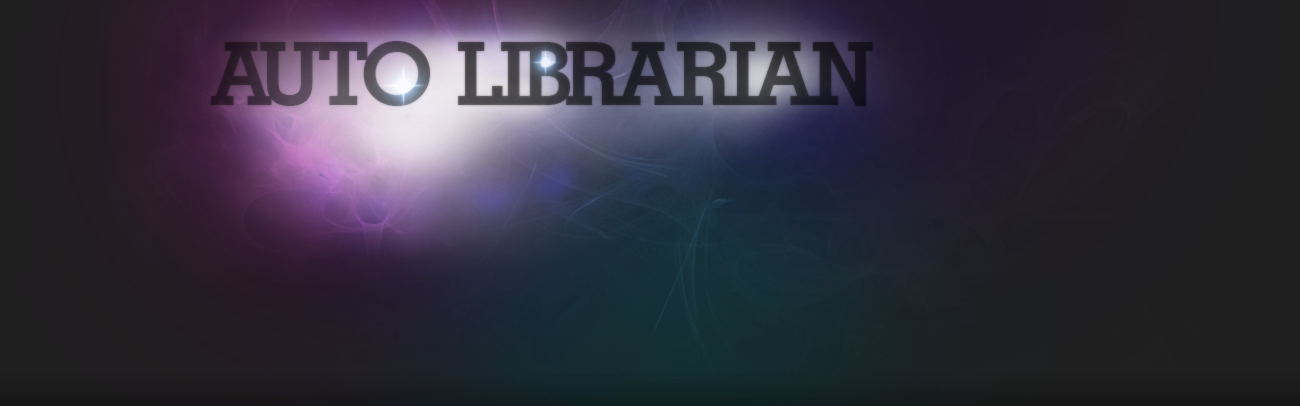
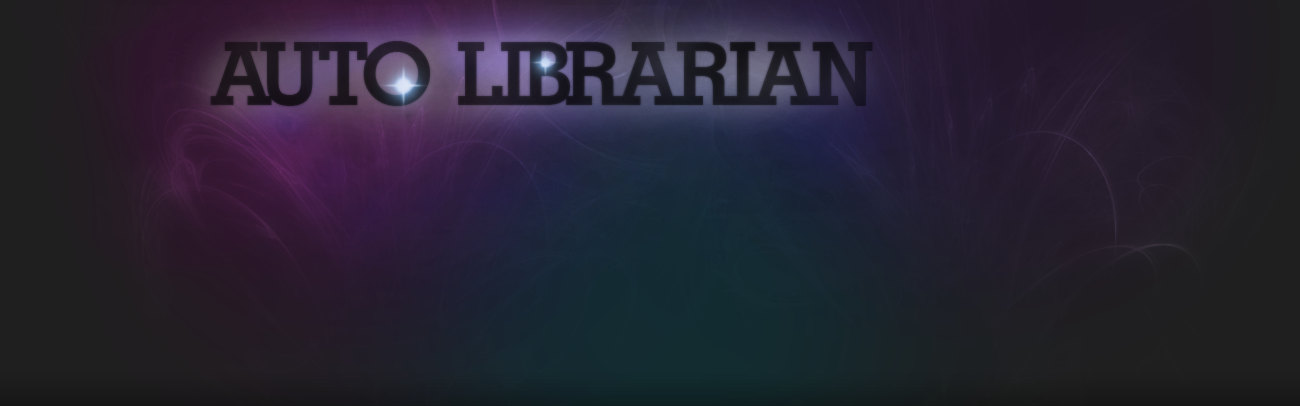
Modified the background image of the page, and remove googlehooks from the repository

Changed region(s): [[0.1846, 0.0, 0.6462, 0.6207]]

diff --git a/autolib/templates/base.html b/autolib/templates/base.html
@@ -29,19 +29,6 @@
 						<div class="unauthenticated"><a id="ab-login" href="{% url django.contrib.auth.views.login %}">login</a><a id="ab-register" href="{% url registration.views.register %}">register</a></div>
 					{% endif %}
 				</div>
-				<div id="promo-message">
-					<p>Download the Android App, to start</p>
-				</div>
-				<div id="android">
-					<a href="{% url apps_android %}">
-						<img src="/media/images/android-icon-256.png" width="128" height="128" alt="Get the Android App" />
-					</a>
-				</div>
-				<div id="java">
-					<a href="{% url apps_java %}">
-						<img src="/media/images/java-icon-256.png" width="128" height="128" alt="Get the Java App" />
-					</a>
-				</div>
 			</div>
 		</div><!-- / #header-wrap -->
 		

diff --git a/autolib/media/css/style.css b/autolib/media/css/style.css
@@ -214,9 +214,9 @@ a:hover                     { text-decoration: underline; }
 #content a.img-link			{ background-color: transparent; border: none; padding: 0; margin: 0; }
 
 
-div#header-wrap     { width: 100%; height: 200px; }
+div#header-wrap     { width: 100%; height: 140px; }
 
-div#header          { width: 936px; margin: 0 auto; position: relative; left: 50%; margin-left: -468px; height: 200px; }
+div#header          { width: 936px; margin: 0 auto; position: relative; left: 50%; margin-left: -468px; height: 140px; }
 
 div#header-bg       {  width: 1300px; height: 406px; 
                       position: relative; margin: 0 auto; z-index: -10; }
